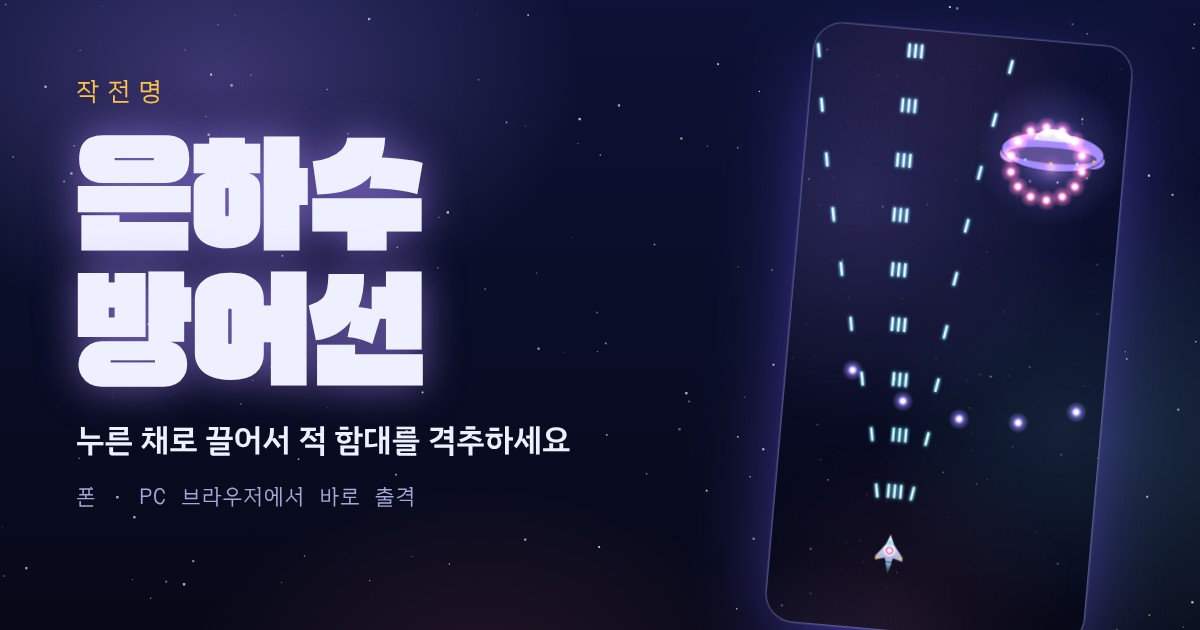
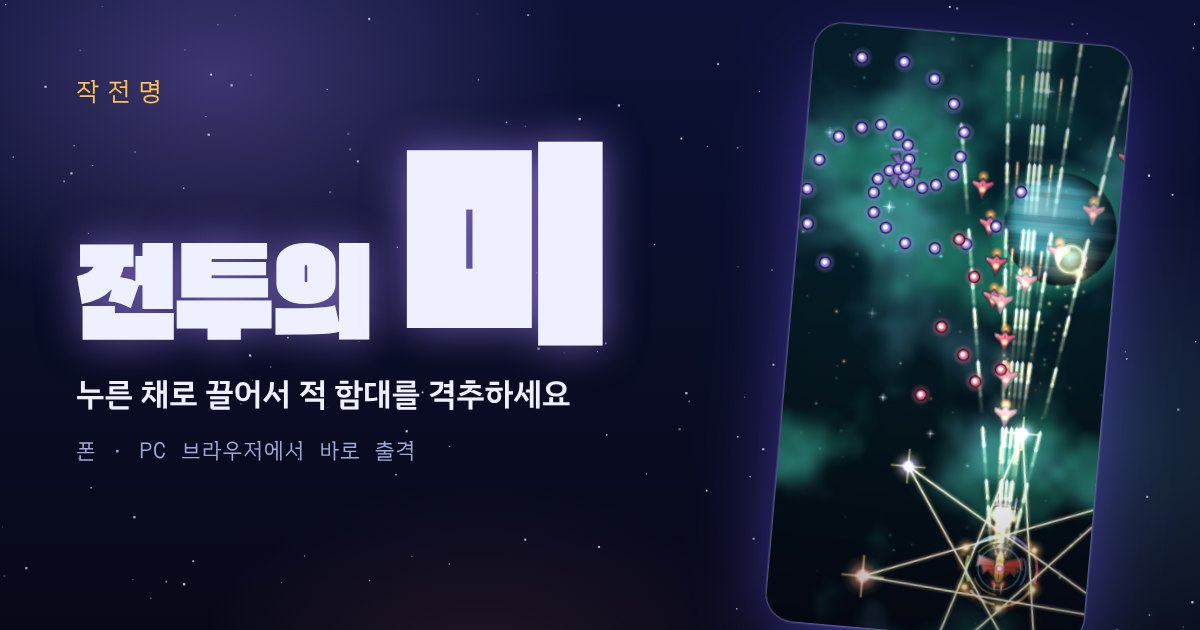
게임 이름을 '전투의 미'로 바꿈 (미를 크게), 링크 미리보기 그림 새로 만듦
Claude-Session: https://claude.ai/code/session_01SDkkW8ZcJ7v7NBSbUWcAK6

diff --git a/space/index.html b/space/index.html
@@ -8,15 +8,15 @@
 <!-- Link preview card (KakaoTalk and other messengers). The addresses follow the repository name; update them if it changes. -->
 <meta property="og:type" content="website">
 <meta property="og:locale" content="ko_KR">
-<meta property="og:title" content="은하수 방어선">
+<meta property="og:title" content="전투의 미">
 <meta property="og:description" content="13분을 버티며 스킬을 키우고, 마지막 모선을 격추하는 우주 슈팅 게임">
 <meta property="og:url" content="https://kswksj7867-a11y.github.io/game/space/">
-<meta property="og:image" content="https://kswksj7867-a11y.github.io/game/space/og.jpg">
+<meta property="og:image" content="https://kswksj7867-a11y.github.io/game/space/og.jpg?v=4">
 <meta property="og:image:width" content="1200">
 <meta property="og:image:height" content="630">
 <meta name="twitter:card" content="summary_large_image">
 <!-- page:start -->
-<title>은하수 방어선</title>
+<title>전투의 미</title>
 <meta name="claude:viewport-fit-sides" content="cover">
 <link rel="preconnect" href="https://fonts.googleapis.com">
 <link rel="preconnect" href="https://fonts.gstatic.com" crossorigin>
@@ -265,6 +265,7 @@ button { font: inherit; color: inherit; }
   line-height: 1.02;
   text-shadow: 0 0 30px rgba(168, 139, 255, 0.55);
 }
+.title-big { font-size: 2.2em; line-height: 0.95; } /* the name's last syllable, set extra large */
 .lede { color: var(--muted); font-size: 0.9375rem; }
 .howto { list-style: none; padding: 0; display: grid; gap: 10px; }
 .howto li { display: grid; grid-template-columns: 34px minmax(0, 1fr); gap: 12px; align-items: start; font-size: 0.875rem; color: var(--muted); }
@@ -924,7 +925,7 @@ dialog[open] .sheet { animation: rise 0.3s cubic-bezier(0.2, 0.8, 0.2, 1); }
 
       <section class="overlay" id="screen-title" aria-labelledby="game-title">
         <p class="eyebrow">작전명</p>
-        <h1 class="title" id="game-title">은하수<br>방어선</h1>
+        <h1 class="title" id="game-title">전투의 <span class="title-big">미</span></h1>
         <p class="lede">13분을 버티면 마지막에 모선이 나타나요. 모선을 격추하면 다음 지역이 열려요.</p>
         <ul class="howto">
           <li>
@@ -8550,11 +8551,11 @@ dialog[open] .sheet { animation: rise 0.3s cubic-bezier(0.2, 0.8, 0.2, 1); }
     const url = location.href.split(/[?#]/)[0];
     const r = lastRun;
     const text = r
-      ? `은하수 방어선 ${r.stage === ENDLESS + 1 ? '무한 모드' : `${r.stage}지역 '${stageName(r.stage)}'`}에서 ${fmt(r.score)}점${r.rank ? `, 전체 ${r.rank}위` : ''}! 너도 도전해 봐.`
-      : '은하수 방어선, 같이 해 보자!';
+      ? `전투의 미 ${r.stage === ENDLESS + 1 ? '무한 모드' : `${r.stage}지역 '${stageName(r.stage)}'`}에서 ${fmt(r.score)}점${r.rank ? `, 전체 ${r.rank}위` : ''}! 너도 도전해 봐.`
+      : '전투의 미, 같이 해 보자!';
     try {
       if (navigator.share) {
-        await navigator.share({ title: '은하수 방어선', text, url });
+        await navigator.share({ title: '전투의 미', text, url });
         return;
       }
     } catch (err) {

diff --git a/README.md b/README.md
@@ -5,7 +5,7 @@
 | 게임 | 파일 | 소개 |
 | --- | --- | --- |
 | 같은 그림 찾기 | `index.html` | 카드를 두 장씩 뒤집어 같은 그림을 찾는 기억력 게임 |
-| 은하수 방어선 | `space/index.html` | 13분을 버티며 경험치로 스킬을 키우고, 마지막 모선을 격추하는 우주 슈팅 게임. 스킬 트리와 친구들과 겨루는 전체 순위가 있어요 |
+| 전투의 미 | `space/index.html` | 13분을 버티며 경험치로 스킬을 키우고, 마지막 모선을 격추하는 우주 슈팅 게임. 스킬 트리와 친구들과 겨루는 전체 순위가 있어요 |
 
 게임마다 파일 하나에 모두 들어 있어요. 설치할 것 없이 브라우저로 열면 바로 시작돼요.
 
@@ -24,7 +24,7 @@
 
 난이도마다 최고 점수, 가장 빠른 판, 상위 10개 기록을 볼 수 있어요.
 
-## 은하수 방어선
+## 전투의 미
 
 ### 진행
 
@@ -240,8 +240,8 @@
 
 ## 기록 저장
 
-다 끝낸 게임의 점수는 브라우저 저장소(localStorage)에 남아요. 은하수 방어선의 코인, 스킬 트리, 이름도 여기에 저장돼요.
-이 기록은 기기와 브라우저마다 따로 저장돼요. 계정을 연결하면 서버에도 저장되어 어디서나 이어서 할 수 있어요. 은하수 방어선의 전체 순위만 인터넷에 올라가서 다른 사람과 함께 봐요(이름, 점수, 버틴 시간, 레벨, 격추 수, 전투기, 기기마다 만든 무작위 번호).
+다 끝낸 게임의 점수는 브라우저 저장소(localStorage)에 남아요. '전투의 미'의 코인, 스킬 트리, 이름도 여기에 저장돼요.
+이 기록은 기기와 브라우저마다 따로 저장돼요. 계정을 연결하면 서버에도 저장되어 어디서나 이어서 할 수 있어요. '전투의 미'의 전체 순위만 인터넷에 올라가서 다른 사람과 함께 봐요(이름, 점수, 버틴 시간, 레벨, 격추 수, 전투기, 기기마다 만든 무작위 번호).
 
 ## 인터넷에 올리기 (GitHub Pages)
 
@@ -250,11 +250,11 @@
 1. GitHub 저장소의 **Settings → Pages**로 가요.
 2. **Source**를 `Deploy from a branch`로, 브랜치를 `main`, 폴더를 `/ (root)`로 고르고 저장해요.
 3. 몇 분 뒤 `https://<사용자 이름>.github.io/<저장소 이름>/` 주소에서 같은 그림 찾기가 열려요.
-   주소 끝에 `space/`를 붙이면 은하수 방어선이에요.
+   주소 끝에 `space/`를 붙이면 '전투의 미'예요.
 
 ## 전체 순위 켜기 (Firebase)
 
-은하수 방어선의 전체 순위는 구글의 무료 서비스인 Firebase Realtime Database에 저장돼요. 저장소 주인이 한 번만 만들면 돼요.
+'전투의 미'의 전체 순위는 구글의 무료 서비스인 Firebase Realtime Database에 저장돼요. 저장소 주인이 한 번만 만들면 돼요.
 
 1. [Firebase 콘솔](https://console.firebase.google.com)에 구글 계정으로 들어가 **프로젝트 만들기**를 눌러요. 이름은 자유롭게 정하고, Google 애널리틱스는 꺼도 돼요.
 2. 왼쪽 메뉴(빌드 또는 모든 제품)에서 **Realtime Database**를 열고 **데이터베이스 만들기**를 눌러요. 위치는 **싱가포르(asia-southeast1)**, 보안 규칙은 **잠금 모드**로 시작해요.
